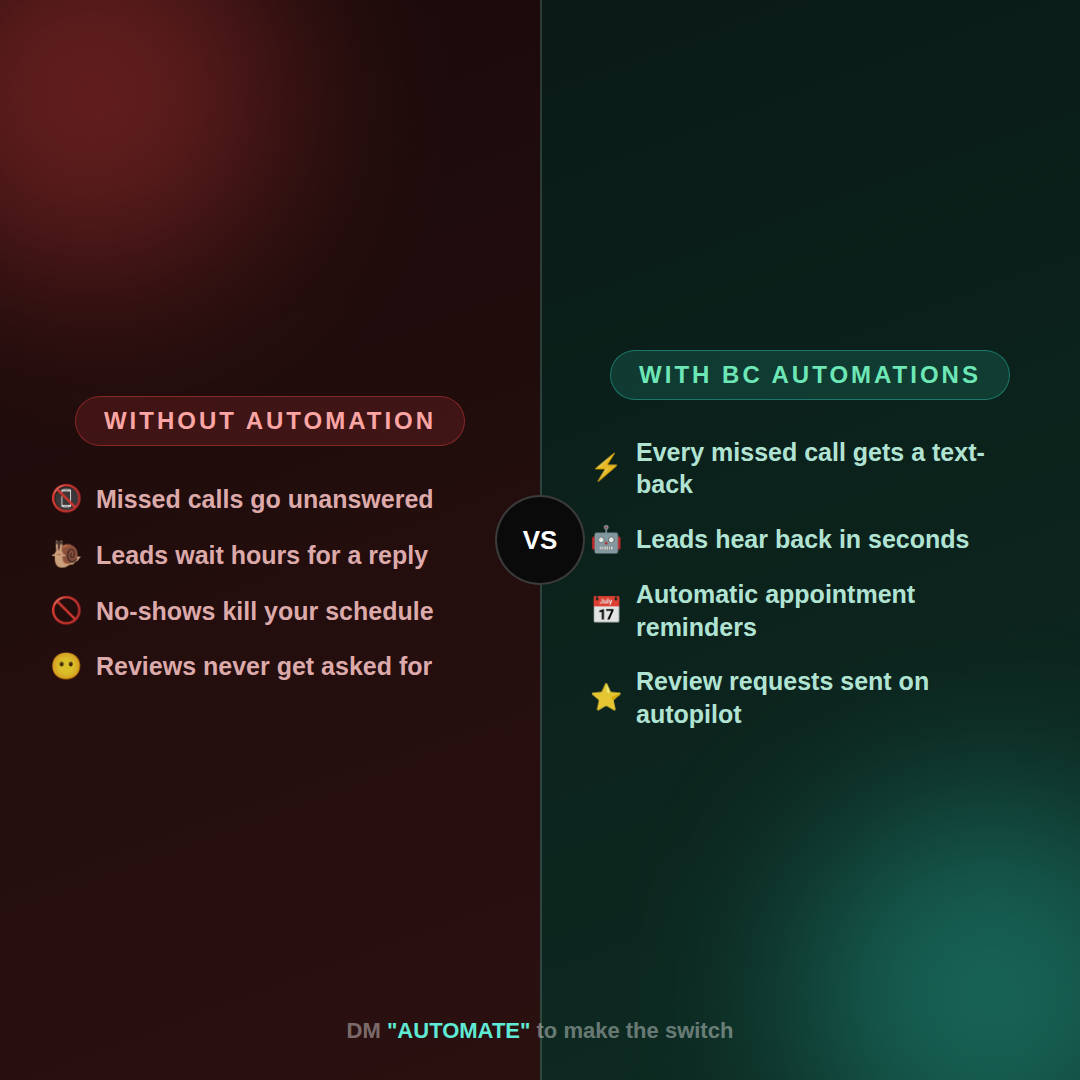
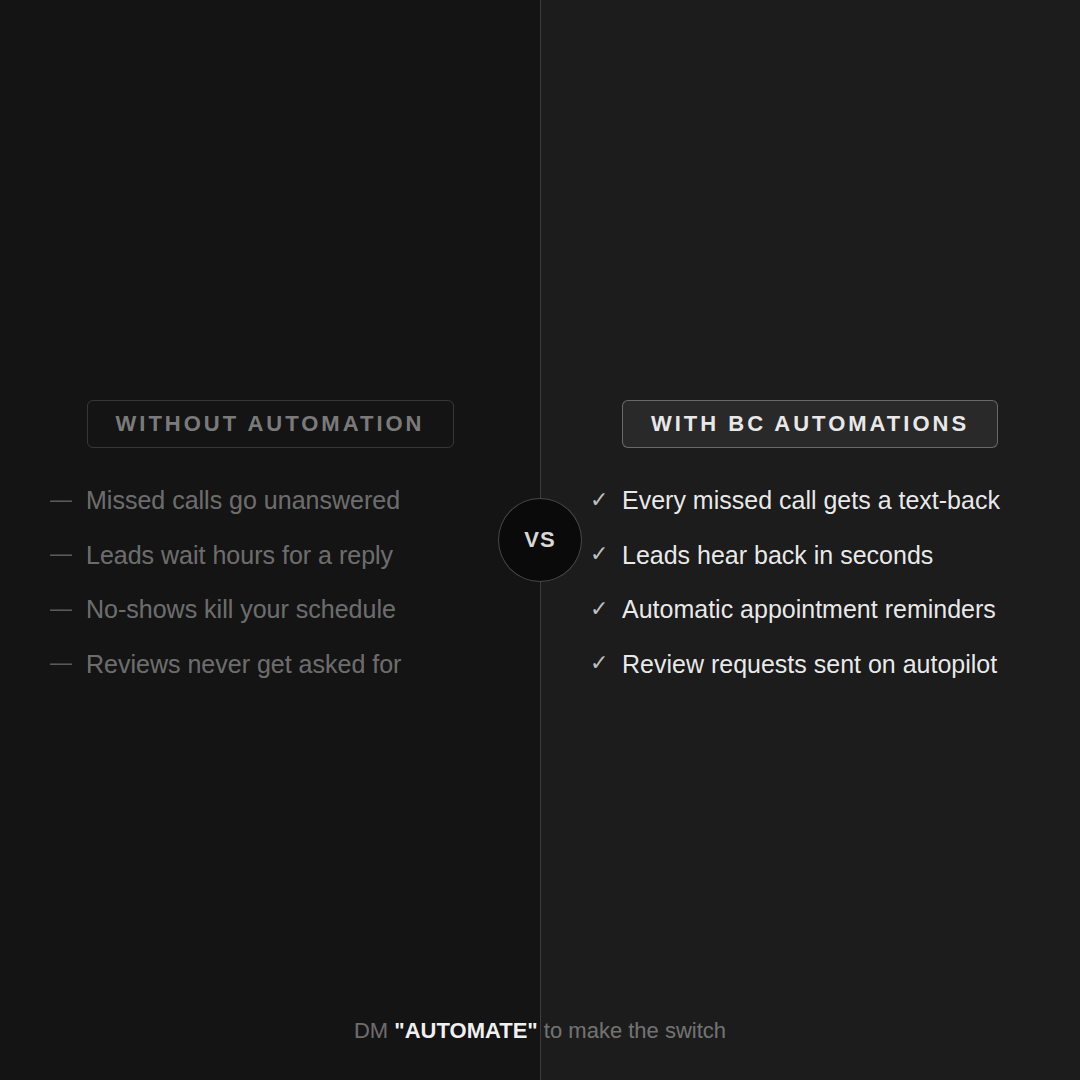
Restyle before/after post to a neutral, professional palette
Claude-Session: https://claude.ai/code/session_01GRBnhy8Amj8LkVNZcVbjVn

diff --git a/instagram-slides/post4-before-after.html b/instagram-slides/post4-before-after.html
@@ -22,22 +22,20 @@
     padding: 60px 50px;
   }
   .before {
-    background: linear-gradient(160deg, #1a0a0a 0%, #2b1010 100%);
+    background: #141414;
   }
   .after {
-    background: linear-gradient(160deg, #0a1a16 0%, #0d2b22 100%);
+    background: #1c1c1c;
   }
-  .glow { position: absolute; border-radius: 50%; filter: blur(90px); opacity: 0.35; }
-  .before .glow { background: #ef4444; width: 380px; height: 380px; top: -100px; left: -100px; }
-  .after .glow { background: #2dd4bf; width: 380px; height: 380px; bottom: -100px; right: -100px; }
   .tag {
-    font-size: 24px; font-weight: 800; letter-spacing: 3px;
+    font-size: 22px; font-weight: 700; letter-spacing: 3px;
     text-transform: uppercase; margin-bottom: 36px;
-    padding: 10px 28px; border-radius: 50px;
+    padding: 10px 28px; border-radius: 6px;
     position: relative; z-index: 5;
+    border: 1px solid rgba(255,255,255,0.15);
   }
-  .before .tag { color: #fca5a5; background: rgba(239,68,68,0.15); border: 1px solid rgba(239,68,68,0.4); }
-  .after .tag { color: #6ee7b7; background: rgba(45,212,191,0.15); border: 1px solid rgba(45,212,191,0.4); }
+  .before .tag { color: rgba(255,255,255,0.45); }
+  .after .tag { color: #e8e8e8; background: rgba(255,255,255,0.06); border-color: rgba(255,255,255,0.3); }
   .item-list {
     display: flex; flex-direction: column; gap: 22px;
     position: relative; z-index: 5;
@@ -45,31 +43,32 @@
   }
   .item {
     display: flex; align-items: center; gap: 14px;
-    font-size: 25px; font-weight: 600; line-height: 1.3;
+    font-size: 25px; font-weight: 500; line-height: 1.3;
   }
-  .before .item { color: rgba(255,200,200,0.85); }
-  .after .item { color: rgba(200,255,235,0.9); }
-  .icon { font-size: 26px; flex-shrink: 0; }
+  .before .item { color: rgba(255,255,255,0.4); }
+  .after .item { color: rgba(255,255,255,0.92); }
+  .icon { font-size: 22px; flex-shrink: 0; opacity: 0.8; }
   .divider {
     position: absolute; top: 0; left: 50%; bottom: 0;
-    width: 2px; background: rgba(255,255,255,0.15);
+    width: 1px; background: rgba(255,255,255,0.15);
     z-index: 10;
   }
   .vs-badge {
     position: absolute; top: 50%; left: 50%;
     transform: translate(-50%, -50%);
-    background: #0a0a0a; border: 2px solid rgba(255,255,255,0.2);
-    border-radius: 50%; width: 90px; height: 90px;
+    background: #0a0a0a; border: 1px solid rgba(255,255,255,0.25);
+    border-radius: 50%; width: 84px; height: 84px;
     display: flex; align-items: center; justify-content: center;
-    font-size: 26px; font-weight: 900; color: #fff;
+    font-size: 22px; font-weight: 700; color: rgba(255,255,255,0.85);
+    letter-spacing: 1px;
     z-index: 20;
   }
   .footer {
     position: absolute; bottom: 36px; left: 0; right: 0;
     text-align: center; z-index: 20;
-    font-size: 22px; color: rgba(255,255,255,0.4); font-weight: 600;
+    font-size: 22px; color: rgba(255,255,255,0.4); font-weight: 500;
   }
-  .footer span { color: #5eead4; font-weight: 800; }
+  .footer span { color: rgba(255,255,255,0.95); font-weight: 700; }
 </style>
 </head>
 <body>
@@ -78,20 +77,20 @@
     <div class="glow"></div>
     <div class="tag">Without Automation</div>
     <div class="item-list">
-      <div class="item"><span class="icon">📵</span> Missed calls go unanswered</div>
-      <div class="item"><span class="icon">🐌</span> Leads wait hours for a reply</div>
-      <div class="item"><span class="icon">🚫</span> No-shows kill your schedule</div>
-      <div class="item"><span class="icon">😶</span> Reviews never get asked for</div>
+      <div class="item"><span class="icon">—</span> Missed calls go unanswered</div>
+      <div class="item"><span class="icon">—</span> Leads wait hours for a reply</div>
+      <div class="item"><span class="icon">—</span> No-shows kill your schedule</div>
+      <div class="item"><span class="icon">—</span> Reviews never get asked for</div>
     </div>
   </div>
   <div class="half after">
     <div class="glow"></div>
     <div class="tag">With BC Automations</div>
     <div class="item-list">
-      <div class="item"><span class="icon">⚡</span> Every missed call gets a text-back</div>
-      <div class="item"><span class="icon">🤖</span> Leads hear back in seconds</div>
-      <div class="item"><span class="icon">📅</span> Automatic appointment reminders</div>
-      <div class="item"><span class="icon">⭐</span> Review requests sent on autopilot</div>
+      <div class="item"><span class="icon">✓</span> Every missed call gets a text-back</div>
+      <div class="item"><span class="icon">✓</span> Leads hear back in seconds</div>
+      <div class="item"><span class="icon">✓</span> Automatic appointment reminders</div>
+      <div class="item"><span class="icon">✓</span> Review requests sent on autopilot</div>
     </div>
   </div>
 </div>
